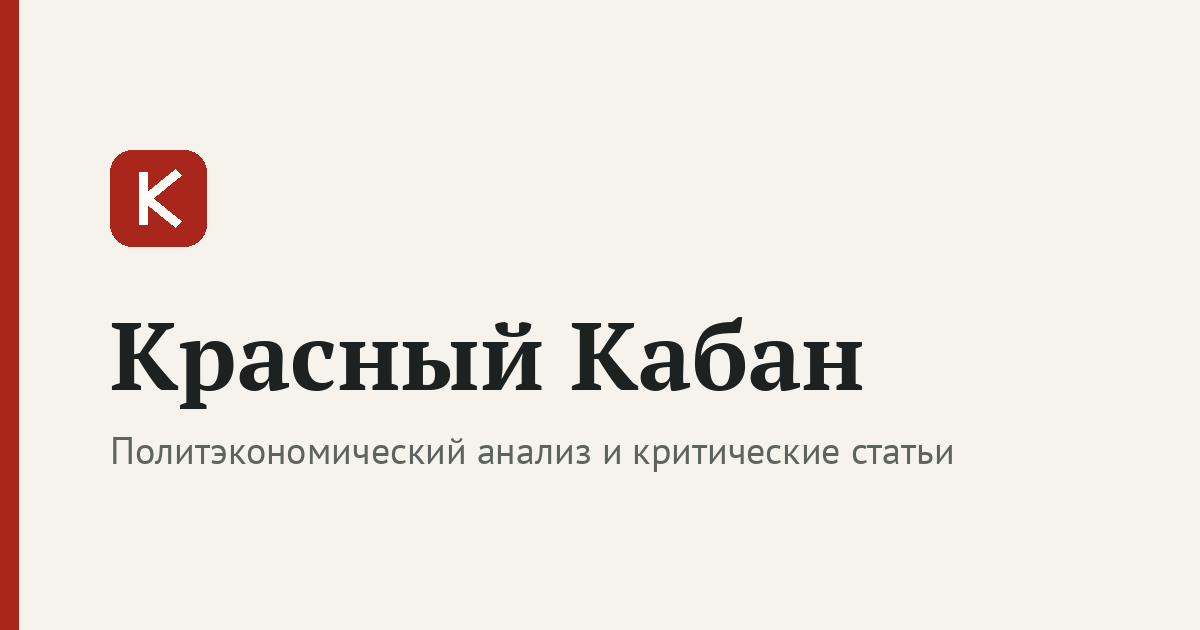
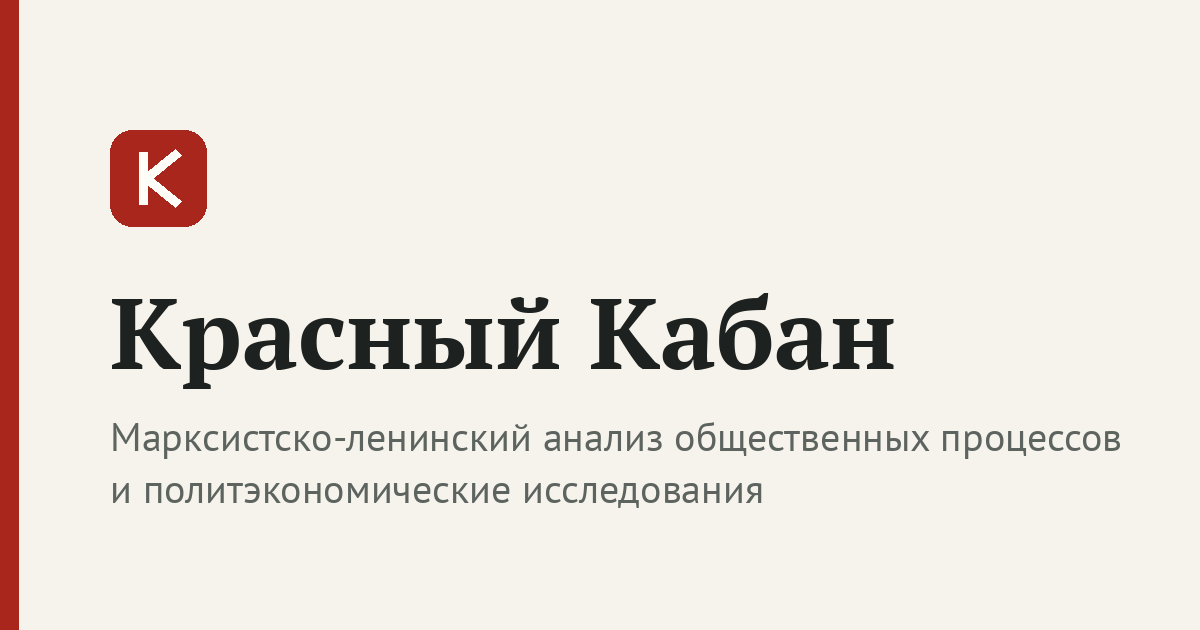
Превью ссылок: актуальное описание и картинка, сброс кэша мессенджеров

Changed region(s): [[0.0925, 0.4524, 0.9558, 0.8143], [0.0925, 0.181, 0.185, 0.3921]]

diff --git a/layouts/partials/head.html b/layouts/partials/head.html
@@ -1,7 +1,7 @@
 <meta charset="utf-8">
 <meta name="viewport" content="width=device-width, initial-scale=1">
 {{ $title := cond .IsHome site.Title (printf "%s — %s" .Title site.Title) }}
-{{ $desc := or .Description .Summary site.Params.description | plainify | htmlUnescape | truncate 180 }}
+{{ $desc := or .Description .Params.tagline .Summary site.Params.description | plainify | htmlUnescape | truncate 180 }}
 <title>{{ $title }}</title>
 <meta name="description" content="{{ $desc }}">
 <link rel="canonical" href="{{ .Permalink }}">
@@ -15,14 +15,14 @@
 <meta property="og:url" content="{{ .Permalink }}">
 <meta property="og:locale" content="ru_RU">
 {{- /* Превью-картинка: своя для каждой статьи (рисуется при сборке scripts/build-assets.mjs) */ -}}
-{{ $img := site.Params.ogImage }}
+{{ $img := printf "%s?v=%s" site.Params.ogImage (substr (md5 (os.ReadFile (printf "static/%s" site.Params.ogImage))) 0 8) }}
 {{ if .Params.image }}{{ $img = .Params.image }}
 {{ else if and .IsPage .File (eq .Section "articles") }}
   {{ $name := .File.ContentBaseName }}
   {{ $tags := slice }}{{ range .GetTerms "tags" }}{{ $tags = $tags | append .LinkTitle }}{{ end }}
   {{ $job := dict "title" .Title "date" (.Date | time.Format ":date_long") "minutes" .ReadingTime "tags" $tags "site" site.Title }}
   {{ $r := resources.FromString (printf "og/%s.json" $name) ($job | jsonify) }}{{ $r.Publish }}
-  {{ $img = printf "og/%s.png" $name }}
+  {{ $img = printf "og/%s.png?v=%s" $name (substr (md5 ($job | jsonify)) 0 8) }}
 {{ end }}
 <meta property="og:image" content="{{ $img | absURL }}">
 <meta property="og:image:width" content="1200">
